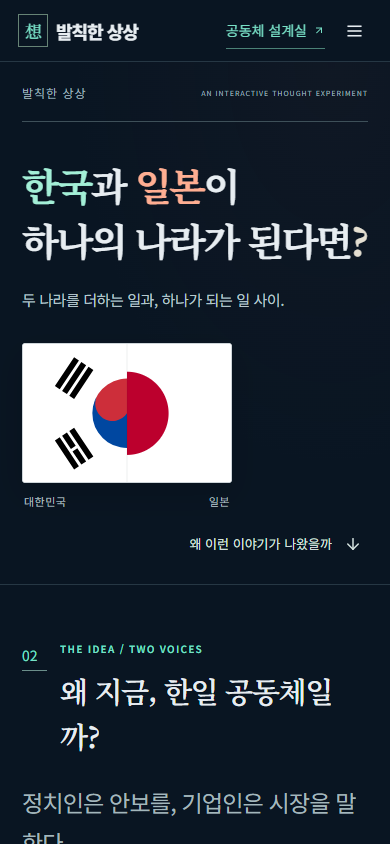
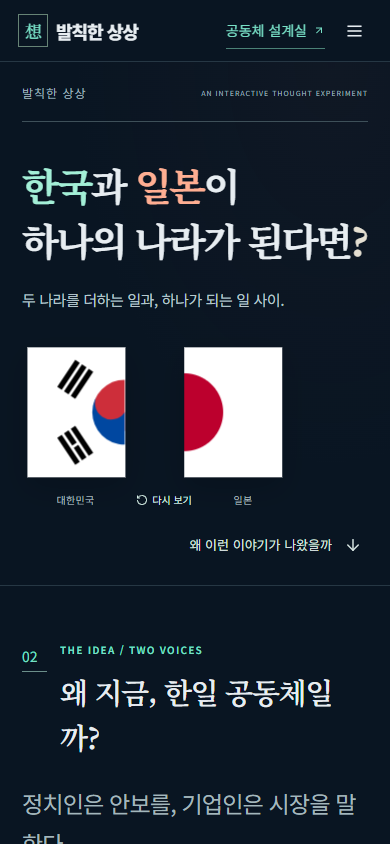
Animate-half-flags-and-show-individual-country-ranks

diff --git a/src/components/Story.tsx b/src/components/Story.tsx
@@ -3,12 +3,14 @@ import FlagUnion from './FlagUnion';
 import{useState,useEffect,useRef}from'react';
 import{ArrowDown,ArrowUpRight,Plus,Minus,Check,ChevronRight,ArrowRight}from'lucide-react';
 import economy from'../data/economy.json';
-import{links}from'../data/content';
+import{links,military}from'../data/content';
 const format=(n:number,d=1)=>new Intl.NumberFormat('ko-KR',{maximumFractionDigits:d}).format(n);
 export function NumberTicker({value,decimals=0}:{value:number;decimals?:number}){const node=useRef<HTMLSpanElement>(null),[display,setDisplay]=useState(value);useEffect(()=>{setDisplay(value);let frame=0;const observer=new IntersectionObserver(([entry])=>{if(!entry.isIntersecting)return;observer.disconnect();if(matchMedia('(prefers-reduced-motion: reduce)').matches)return;const start=performance.now();const tick=(now:number)=>{const progress=Math.min(1,(now-start)/1100);setDisplay(value*(1-Math.pow(1-progress,3)));if(progress<1)frame=requestAnimationFrame(tick)};frame=requestAnimationFrame(tick)},{threshold:.4});if(node.current)observer.observe(node.current);return()=>{observer.disconnect();cancelAnimationFrame(frame)}},[value]);return <span ref={node} aria-label={format(value,decimals)}><span aria-hidden="true">{format(display,decimals)}</span></span>}
 export function StoryHero({next}:{next:()=>void}){return <section id="chapter-0" className="chapter story-hero"><div className="story-eyeline"><span>발칙한 상상</span><span>AN INTERACTIVE THOUGHT EXPERIMENT</span></div><h1><span className="title-k">한국</span>과 <span className="title-j">일본</span>이<br/>하나의 나라가 된다면<span className="question-mark">?</span></h1><p className="hero-deck">두 나라를 더하는 일과, 하나가 되는 일 사이.</p><FlagUnion/><div className="hero-bottom"><button onClick={next}>왜 이런 이야기가 나왔을까 <ArrowDown size={18}/></button></div></section>}
-export function WhyNow(){return <div className="why-now"><p className="story-lead">정치인은 안보를, 기업인은 시장을 말한다.<br/><strong>같은 ‘연대’, 다른 출발점.</strong></p><div className="speaker-grid"><article className="speaker speaker-ishiba"><div className="speaker-top"><span>01 / 안보와 국제적 영향력</span><span>2026. 10. 29.</span></div><div className="speaker-monogram" aria-hidden="true">石</div><h3>이시바 시게루</h3><p className="speaker-role">당시 전 일본 총리 · 도쿄 국제 한반도 포럼</p><blockquote>“한일 연계 시 … GDP는 6조 달러”</blockquote><p>북핵 위협과 국제질서 변화 속에서, 두 나라의 무게를 함께 키우자는 구상.</p><a href={links.ishiba} target="_blank" rel="noreferrer">발언 보도 <ArrowUpRight size={16}/></a></article><article className="speaker speaker-chey"><div className="speaker-top"><span>02 / 산업과 시장의 규모</span><span>2025. 05. 30.</span></div><div className="speaker-monogram" aria-hidden="true">崔</div><h3>최태원</h3><p className="speaker-role">당시 SK·대한상의 회장 · 닛케이 인터뷰 보도</p><blockquote>“한일 반도체 기업간 생태계를 통합하고 싶다”</blockquote><p>에너지 공동 구매부터 반도체 협력까지, 비용과 규모의 문제를 함께 풀자는 제안.</p><a href="https://www.newstomato.com/ReadNews.aspx?no=1263802" target="_blank" rel="noreferrer">발언 보도 <ArrowUpRight size={16}/></a></article></div><div className="reason-chips"><span>시장과 공급망</span><Plus size={15}/><span>고령화와 저성장</span><Plus size={15}/><span>지정학적 불확실성</span></div><details className="story-fold"><summary>발언의 맥락과 해석 범위</summary><p>두 발언은 서로 다른 시점·맥락의 협력 구상입니다. 한일의 연방국가 수립 합의나 통합 성장효과의 검증 결과가 아닙니다. 보도된 한국어 인용이며 원어 발언록은 확보하지 못했습니다.</p><a href={links.summit} target="_blank" rel="noreferrer">양국 정상회담의 공식 협력 의제 <ArrowUpRight size={15}/></a></details><div className="story-turn">그렇다면, 숫자를 정말 더해보면?</div></div>}
-export function ScaleOverview({gdp,year,onSource}:{gdp:number;year:number;onSource:(s:'imf'|'un'|'sipri')=>void}){return <><p className="story-lead">경제는 세계 <strong>3위 규모.</strong><br/>인구와 군사비의 순위는 다르다.</p><div className="power-grid">{[{id:'imf' as const,label:'명목 GDP',rank:3,value:gdp/1000,decimals:2,unit:'조 달러',date:`${year} · IMF`,detail:'한국 + 일본의 단순 합계',pair:['한국 1.88조 $','일본 4.21조 $']},{id:'un' as const,label:'인구',rank:8,value:17547.0628,decimals:0,unit:'만 명',date:'2024 · UN 중위 전망',detail:'양국을 하나의 경제권으로 비교',pair:['한국 5,172만 명','일본 1억 2,375만 명']},{id:'sipri' as const,label:'군사비',rank:5,value:1100,decimals:0,unit:'억 달러',date:'2025 · SIPRI',detail:'군사비 순위 ≠ 실제 방위력',pair:['한국 478억 $','일본 622억 $']}].map(x=><article className={'power-card power-'+x.id} key={x.id}><div className="power-label"><span>{x.label}</span><small>{x.date}</small></div><div className="power-rank"><span>세계</span><strong><NumberTicker value={x.rank}/></strong><b>위</b></div><div className="power-value"><NumberTicker value={x.value} decimals={x.decimals}/><span>{x.unit}</span></div><div className="power-pair">{x.id==='imf'?<><span>한국 {format(economy.macro.find(m=>m.year===year)!.rows.find(r=>r.id==='KOR')!.value/1000,2)}조 $</span><span>일본 {format(economy.macro.find(m=>m.year===year)!.rows.find(r=>r.id==='JPN')!.value/1000,2)}조 $</span></>:x.pair.map(t=><span key={t}>{t}</span>)}</div><p>{x.detail}</p><button className="source-link" onClick={()=>onSource(x.id)}>출처·계산 방법 <ArrowUpRight size={14}/></button></article>)}<article className="power-card power-manufacturing"><div className="power-label"><span>제조업 부가가치</span><small>2024 · World Bank·BEA</small></div><div className="power-rank"><span>세계</span><strong><NumberTicker value={manufacturing.rank}/></strong><b>위</b></div><div className="power-value"><NumberTicker value={manufacturing.total/1e12} decimals={2}/><span>조 달러</span></div><div className="power-pair"><span>한국 {format(manufacturing.korea/1e8,0)}억 $</span><span>일본 {format(manufacturing.japan/1e8,0)}억 $</span></div><p>제조업 부가가치 단순 합계의 가상 순위</p><details className="manufacturing-source"><summary>출처·계산 방법</summary><p>2024년 현행 달러 기준. World Bank 국가별 자료에 미국 BEA/FRED 자료를 보완했습니다. 미국은 분기 연율 4개를 평균해 연간 규모로 환산했습니다. 확보된 {manufacturing.coverage}개 경제체에서 한국·일본을 빼고 합계를 넣어 산출한 가상 순위입니다. 지역 합계와 결측 경제체는 제외했습니다. 산업 분류·통계 개정 시점은 다를 수 있습니다. GDP에 포함된 값으로 GDP에 다시 더하지 않습니다.</p><a href={manufacturing.url} target="_blank" rel="noreferrer">World Bank 공식 통계 ↗</a><br/><a href={manufacturing.usUrl} target="_blank" rel="noreferrer">미국 BEA · FRED 원자료 ↗</a><div className="manufacturing-ranking">{manufacturing.ranking.slice(0,5).map((r,i)=><div key={r.id}><span>{i+1}위 {r.id==='CHN'?'중국':r.id==='USA'?'미국':r.id==='DEU'?'독일':r.id==='UNION'?'한국+일본':r.name}</span><b>{format(r.value/1e12,2)}조 $</b></div>)}</div></details></article></div><p className="scale-rule">단순 합계입니다. 경제공동체가 곧 한 나라가 되는 것은 아닙니다.</p></>}
+export function WhyNow(){return <div className="why-now"><p className="story-lead">정치인은 안보를, 기업인은 시장을 말한다.</p><div className="speaker-grid"><article className="speaker speaker-ishiba"><div className="speaker-top"><span>01 / 안보와 국제적 영향력</span><span>2026. 10. 29.</span></div><div className="speaker-monogram" aria-hidden="true">石</div><h3>이시바 시게루</h3><p className="speaker-role">당시 전 일본 총리 · 도쿄 국제 한반도 포럼</p><blockquote>“한일 연계 시 … GDP는 6조 달러”</blockquote><p>북핵 위협과 국제질서 변화 속에서, 두 나라의 무게를 함께 키우자는 구상.</p><a href={links.ishiba} target="_blank" rel="noreferrer">발언 보도 <ArrowUpRight size={16}/></a></article><article className="speaker speaker-chey"><div className="speaker-top"><span>02 / 산업과 시장의 규모</span><span>2025. 05. 30.</span></div><div className="speaker-monogram" aria-hidden="true">崔</div><h3>최태원</h3><p className="speaker-role">당시 SK·대한상의 회장 · 닛케이 인터뷰 보도</p><blockquote>“한일 반도체 기업간 생태계를 통합하고 싶다”</blockquote><p>에너지 공동 구매부터 반도체 협력까지, 비용과 규모의 문제를 함께 풀자는 제안.</p><a href="https://www.newstomato.com/ReadNews.aspx?no=1263802" target="_blank" rel="noreferrer">발언 보도 <ArrowUpRight size={16}/></a></article></div><div className="reason-chips"><span>시장과 공급망</span><Plus size={15}/><span>고령화와 저성장</span><Plus size={15}/><span>지정학적 불확실성</span></div><details className="story-fold"><summary>발언의 맥락과 해석 범위</summary><p>두 발언은 서로 다른 시점·맥락의 협력 구상입니다. 한일의 연방국가 수립 합의나 통합 성장효과의 검증 결과가 아닙니다. 보도된 한국어 인용이며 원어 발언록은 확보하지 못했습니다.</p><a href={links.summit} target="_blank" rel="noreferrer">양국 정상회담의 공식 협력 의제 <ArrowUpRight size={15}/></a></details><div className="story-turn">그렇다면, 숫자를 정말 더해보면?</div></div>}
+const countryRank=(rows:{id:string;value:number}[],id:string)=>{const value=rows.find(r=>r.id===id)!.value;return 1+rows.filter(r=>r.value>value).length};
+const manufacturingCountries=[...manufacturing.ranking.filter(r=>r.id!=='UNION'),{id:'KOR',value:manufacturing.korea},{id:'JPN',value:manufacturing.japan}];
+export function ScaleOverview({gdp,year,onSource}:{gdp:number;year:number;onSource:(s:'imf'|'un'|'sipri')=>void}){return <><p className="story-lead">경제는 세계 <strong>3위 규모.</strong><br/>인구와 군사비의 순위는 다르다.</p><div className="power-grid">{[{id:'imf' as const,label:'명목 GDP',rank:3,value:gdp/1000,decimals:2,unit:'조 달러',date:`${year} · IMF`,detail:'한국 + 일본의 단순 합계',pair:['한국 1.88조 $','일본 4.21조 $']},{id:'un' as const,label:'인구',rank:8,value:17547.0628,decimals:0,unit:'만 명',date:'2024 · UN 중위 전망',detail:'양국을 하나의 경제권으로 비교',pair:['한국 5,172만 명','일본 1억 2,375만 명']},{id:'sipri' as const,label:'군사비',rank:5,value:1100,decimals:0,unit:'억 달러',date:'2025 · SIPRI',detail:'군사비 순위 ≠ 실제 방위력',pair:['한국 478억 $','일본 622억 $']}].map(x=><article className={'power-card power-'+x.id} key={x.id}><div className="power-label"><span>{x.label}</span><small>{x.date}</small></div><div className="power-rank"><span>세계</span><strong><NumberTicker value={x.rank}/></strong><b>위</b></div><div className="power-value"><NumberTicker value={x.value} decimals={x.decimals}/><span>{x.unit}</span></div><div className="power-pair">{x.id==='imf'?<><span>한국 {format(economy.macro.find(m=>m.year===year)!.rows.find(r=>r.id==='KOR')!.value/1000,2)}조 $<em className="country-rank">세계 {countryRank(economy.macro.find(m=>m.year===year)!.rows,'KOR')}위</em></span><span>일본 {format(economy.macro.find(m=>m.year===year)!.rows.find(r=>r.id==='JPN')!.value/1000,2)}조 $<em className="country-rank">세계 {countryRank(economy.macro.find(m=>m.year===year)!.rows,'JPN')}위</em></span></>:x.pair.map((t,i)=><span key={t}>{t}<em className="country-rank">세계 {countryRank(x.id==='un'?economy.population.rows:military,i===0?'KOR':'JPN')}위</em></span>)}</div><p>{x.detail}</p><button className="source-link" onClick={()=>onSource(x.id)}>출처·계산 방법 <ArrowUpRight size={14}/></button></article>)}<article className="power-card power-manufacturing"><div className="power-label"><span>제조업 부가가치</span><small>2024 · World Bank·BEA</small></div><div className="power-rank"><span>세계</span><strong><NumberTicker value={manufacturing.rank}/></strong><b>위</b></div><div className="power-value"><NumberTicker value={manufacturing.total/1e12} decimals={2}/><span>조 달러</span></div><div className="power-pair"><span>한국 {format(manufacturing.korea/1e8,0)}억 $<em className="country-rank">세계 {countryRank(manufacturingCountries,'KOR')}위</em></span><span>일본 {format(manufacturing.japan/1e8,0)}억 $<em className="country-rank">세계 {countryRank(manufacturingCountries,'JPN')}위</em></span></div><p>제조업 부가가치 단순 합계의 가상 순위</p><details className="manufacturing-source"><summary>출처·계산 방법</summary><p>2024년 현행 달러 기준. World Bank 국가별 자료에 미국 BEA/FRED 자료를 보완했습니다. 미국은 분기 연율 4개를 평균해 연간 규모로 환산했습니다. 확보된 {manufacturing.coverage}개 경제체에서 한국·일본을 빼고 합계를 넣어 산출한 가상 순위입니다. 지역 합계와 결측 경제체는 제외했습니다. 산업 분류·통계 개정 시점은 다를 수 있습니다. GDP에 포함된 값으로 GDP에 다시 더하지 않습니다.</p><a href={manufacturing.url} target="_blank" rel="noreferrer">World Bank 공식 통계 ↗</a><br/><a href={manufacturing.usUrl} target="_blank" rel="noreferrer">미국 BEA · FRED 원자료 ↗</a><div className="manufacturing-ranking">{manufacturing.ranking.slice(0,5).map((r,i)=><div key={r.id}><span>{i+1}위 {r.id==='CHN'?'중국':r.id==='USA'?'미국':r.id==='DEU'?'독일':r.id==='UNION'?'한국+일본':r.name}</span><b>{format(r.value/1e12,2)}조 $</b></div>)}</div></details></article></div><p className="scale-rule">개별 순위는 통합 전, 합산 순위는 양국을 빼고 합계를 넣은 비교입니다. 지표별 기준연도는 다릅니다.</p></>}
 export function RealityIntro(){return <><p className="story-lead">숫자는 더해진다.<br/><strong>역사와 주권은 그렇게 더해지지 않는다.</strong></p><div className="obstacle-grid">{[['역사와 신뢰','과거사·피해자 권리·영토 문제'],['누가 결정할까','인구 비례와 국가 동등성의 충돌'],['누가 부담할까','산업 조정·복지·재정의 비용']].map(([title,desc],i)=><article key={title}><span>0{i+1}</span><h3>{title}</h3><p>{desc}</p></article>)}</div><div className="sentiment-hook"><span>상대국에 좋은 인상 · 2026 EAI·IHJ</span><div><p><small>한국 → 일본</small><strong className="k-text"><NumberTicker value={54.3} decimals={1}/><b>%</b></strong></p><span className="sentiment-vs">↔</span><p><small>일본 → 한국</small><strong className="j-text"><NumberTicker value={35.3} decimals={1}/><b>%</b></strong></p></div><h3>가까워졌지만, 같은 마음은 아니다.</h3></div></>}
 export function EuropeanBalance(){return <div className="europe-balance"><div className="europe-journey"><div><strong>1950</strong><span>석탄·철강 공동관리 제안</span></div><ArrowRight/><div><strong>1993</strong><span>EU 출범·단일시장</span></div><div className="journey-duration"><b>43</b><span>년의 협상과 타협</span></div></div><div className="balance-grid"><article><span className="balance-sign">+</span><h3>함께 열 수 있는 것</h3><ul><li>더 큰 시장과 이동의 자유</li><li>공통 규칙으로 낮아지는 장벽</li><li>장기 협력과 공동 협상력</li></ul></article><article><span className="balance-sign">−</span><h3>함께 감당해야 하는 것</h3><ul><li>국가별 정책 자율성의 제약</li><li>지역·산업별로 다른 이익과 비용</li><li>통화위기·국경 통제·탈퇴 갈등</li></ul></article></div><p className="scale-rule">EU는 단일 주권국가가 아니다. 솅겐·유로존·NATO도 서로 다른 제도다.</p><details className="story-fold"><summary>EU의 성과와 한계, 공식 자료로 더 보기</summary><p>아래 타임라인에서 통합의 변화와 갈등을 함께 볼 수 있습니다. EU의 제도를 한일에 그대로 적용할 수 있다는 뜻은 아닙니다.</p><a href="https://www.consilium.europa.eu/en/policies/the-eu-single-market-benefits-facts-and-figures/" target="_blank" rel="noreferrer">EU 단일시장 공식 설명 <ArrowUpRight size={15}/></a></details></div>}
 export function Outlook(){const[tab,setTab]=useState(0);const paths=[{name:'분야별 협력',assessment:'출발점이 이미 있다',title:'작게 합의하고, 계속 작동시키기',plus:'공동 구매·공급망·인적 교류를 분야별로 확대할 수 있다.',minus:'정권·외교 갈등에 따라 협력이 흔들릴 수 있다.',conditions:['지속적인 협의기구','협정 이행과 분쟁 해결','피해자 권리·역사 문제의 별도 진전'],evidence:'RCEP 참여와 공통 사회 과제 협의는 이미 존재하는 협력 기반이다.',url:links.summit},{name:'EU형 공동시장',assessment:'추가 조약과 권한 합의가 필요하다',title:'상품을 넘어, 규칙을 함께 만들기',plus:'상품·서비스·자본·사람의 이동 장벽을 낮출 수 있다.',minus:'노동·복지·이민·경쟁법 조정의 비용과 대표성 문제가 생긴다.',conditions:['개방 범위에 대한 합의','규제·경쟁·사법 체계','산업별 조정 대책과 민주적 통제'],evidence:'EU 사례는 단일시장이 관세 인하 이상의 공동 규칙을 요구함을 보여준다.',url:links.eu},{name:'공동통화·연방',assessment:'더 큰 국민적·헌법적 합의가 필요하다',title:'경제의 합계에서, 주권의 공유로',plus:'제도 설계에 따라 역내 환전·일부 정책 조정 비용을 줄일 수 있다.',minus:'독자적 통화·외교·재정 권한의 제약과 위험 분담이 뒤따른다.',conditions:['공동 중앙은행·금융 안전장치','재정·시민권·권한 배분','양국 시민의 명시적 동의'],evidence:'경제공동체 긍정 응답만으로 정치통합의 동의를 판단할 수 없다.',url:links.chamber}];const s=paths[tab];return <div className="outlook"><p className="story-lead">‘하나가 될까’보다 먼저,<br/><strong>무엇을 함께할 수 있을까.</strong></p><p className="outlook-byline">자료와 제도에 근거한 편집 분석 · 실현 확률이나 도입 시점의 예측이 아닙니다.</p><div className="outlook-tabs">{paths.map((p,i)=><button key={p.name} aria-pressed={tab===i} className={tab===i?'active':''} onClick={()=>setTab(i)}><span>0{i+1}</span>{p.name}<ChevronRight size={18}/></button>)}</div><div className="outlook-result" aria-live="polite"><span className="outlook-assessment">{s.assessment}</span><h3>{s.title}</h3><div className="outlook-tradeoffs"><div><Plus/><p>{s.plus}</p></div><div><Minus/><p>{s.minus}</p></div></div><h4>현실화의 조건</h4><div className="conditions">{s.conditions.map(x=><span key={x}><Check size={17}/>{x}</span>)}</div><details className="story-fold"><summary>이 전망의 근거</summary><p>{s.evidence}</p><a href={s.url} target="_blank" rel="noreferrer">관련 자료 <ArrowUpRight size={15}/></a></details></div><div className="closing-thought">함께할 수 있는 범위는,<br/><strong>숫자가 아니라 합의가 결정한다.</strong></div></div>}

diff --git a/tests/ui/narrative.spec.ts b/tests/ui/narrative.spec.ts
@@ -4,10 +4,10 @@ test('narrative, everyday comparisons, currency experiment and existing tools',a
  await expect(page.getByRole('heading',{level:1})).toContainText('한국과 일본이');
  await expect(page.locator('main>section')).toHaveCount(11);
  await expect(page.locator('body')).toHaveJSProperty('scrollWidth',await page.evaluate(()=>innerWidth));
- await expect(page.locator('.flag-union svg')).toBeVisible();await expect(page.locator('.flag-union image')).toHaveCount(2);await expect(page.locator('.land-union')).toHaveCount(0);
+ await expect(page.locator('.flag-union>svg')).toBeVisible();await expect(page.locator('.flag-union image')).toHaveCount(2);await expect(page.locator('.land-union')).toHaveCount(0);await expect(page.locator('.flag-piece-k')).toHaveCSS('animation-name','flag-join-k');await page.getByRole('button',{name:'국기 합치기 다시 보기'}).click();
  await page.screenshot({path:`docs/${info.project.name}-hero.png`,fullPage:false});
  await expect(page.locator('#chapter-1')).toContainText('이시바 시게루');await expect(page.locator('#chapter-1')).toContainText('최태원');
- await expect(page.locator('.power-imf .power-rank')).toContainText('3');await expect(page.locator('.power-un .power-rank')).toContainText('8');await expect(page.locator('.power-sipri .power-rank')).toContainText('5');
+ await expect(page.locator('.power-pair .country-rank')).toHaveCount(8);await expect(page.locator('.power-imf .power-rank')).toContainText('3');await expect(page.locator('.power-un .power-rank')).toContainText('8');await expect(page.locator('.power-sipri .power-rank')).toContainText('5');
  await page.locator('.ranking-fold>summary').click();await page.getByLabel('GDP 기준연도').selectOption('2026');await expect(page.locator('.power-imf .power-value')).toContainText('6.59');
  await page.locator('#chapter-2').getByRole('button',{name:'인구',exact:true}).click();await expect(page.locator('.ranking-panel .highlight')).toContainText('175.47');
  await expect(page.locator('.daily-car .local-price')).toContainText('엔');await expect(page.locator('.daily-car')).toContainText('만원 환산');await expect(page.locator('.daily-housing')).toContainText('다른 집계');

diff --git a/src/components/FlagUnion.tsx b/src/components/FlagUnion.tsx
@@ -1,3 +1,4 @@
+import{useState}from'react';
+import{RotateCcw}from'lucide-react';
 import './flag-union.css';
-
-export default function FlagUnion(){return <figure className="flag-union"><svg viewBox="0 0 360 240" role="img" aria-label="왼쪽은 태극기, 오른쪽은 일장기를 절반씩 맞댄 그래픽"><defs><clipPath id="flag-korea-half"><rect width="180" height="240"/></clipPath><clipPath id="flag-japan-half"><rect x="180" width="180" height="240"/></clipPath></defs><rect width="360" height="240" fill="#fff"/><image href="./images/kr.svg" width="360" height="240" preserveAspectRatio="xMidYMid meet" clipPath="url(#flag-korea-half)"/><image href="./images/jp.svg" width="360" height="240" preserveAspectRatio="xMidYMid meet" clipPath="url(#flag-japan-half)"/><path d="M180 0V240" stroke="#0a1624" strokeOpacity=".13" strokeWidth="1"/></svg><figcaption><span>대한민국</span><span>일본</span></figcaption></figure>}
+export default function FlagUnion(){const[replay,setReplay]=useState(0);return <figure className="flag-union"><svg key={replay} viewBox="-65 -8 490 256" role="img" aria-label="태극기 왼쪽 절반과 일장기 오른쪽 절반이 떨어져 있다가 모여 하나의 국기가 되는 그래픽"><defs><clipPath id="flag-korea-half"><rect width="180" height="240"/></clipPath><clipPath id="flag-japan-half"><rect x="180" width="180" height="240"/></clipPath></defs><g className="flag-piece flag-piece-k"><rect width="180" height="240" fill="#fff"/><image href="./images/kr.svg" width="360" height="240" preserveAspectRatio="xMidYMid meet" clipPath="url(#flag-korea-half)"/></g><g className="flag-piece flag-piece-j"><rect x="180" width="180" height="240" fill="#fff"/><image href="./images/jp.svg" width="360" height="240" preserveAspectRatio="xMidYMid meet" clipPath="url(#flag-japan-half)"/></g></svg><figcaption><span>대한민국</span><button onClick={()=>setReplay(replay+1)} aria-label="국기 합치기 다시 보기"><RotateCcw size={12}/>다시 보기</button><span>일본</span></figcaption></figure>}

diff --git a/src/components/flag-union.css b/src/components/flag-union.css
@@ -1,1 +1,1 @@
-.flag-union{width:280px;max-width:70%;margin:30px 0 26px}.flag-union svg{display:block;width:100%;height:auto;border:1px solid #ced5d9;border-radius:3px;box-shadow:0 12px 32px #00000026;background:white}.flag-union figcaption{display:flex;justify-content:space-between;margin-top:10px;padding:0 2px;color:#a5b9be;font-size:12px;letter-spacing:.5px}.story-hero .hero-bottom{padding-top:10px}.story-hero .hero-bottom>button{margin-left:auto}@media(max-width:640px){.flag-union{width:210px;margin:24px 0 22px}.flag-union figcaption{font-size:11px}.story-hero .hero-bottom{padding-top:2px}}
+.flag-union{width:340px;max-width:90%;margin:30px 0 26px}.flag-union svg{display:block;width:100%;height:auto;overflow:visible;filter:drop-shadow(0 10px 15px #00000028)}.flag-piece{transform-box:view-box;transform-origin:0 0;animation-duration:2.4s;animation-timing-function:cubic-bezier(.22,.7,.18,1);animation-fill-mode:both}.flag-piece-k{animation-name:flag-join-k}.flag-piece-j{animation-name:flag-join-j}@keyframes flag-join-k{0%,22%{transform:translateX(-55px)}100%{transform:translateX(0)}}@keyframes flag-join-j{0%,22%{transform:translateX(55px)}100%{transform:translateX(0)}}.flag-union figcaption{display:flex;align-items:center;justify-content:space-between;margin:10px 13% 0;color:#a5b9be;font-size:11px;gap:10px;letter-spacing:.3px}.flag-union figcaption button{display:flex;align-items:center;gap:4px;color:#8fa8ae;background:none;border:0;padding:3px;font-size:10px;cursor:pointer;white-space:nowrap}.flag-union figcaption button:hover{color:#d5eee5}.story-hero .hero-bottom{padding-top:10px}.story-hero .hero-bottom>button{margin-left:auto}@media(max-width:640px){.flag-union{width:265px;margin:24px 0 22px}.flag-union figcaption{font-size:10px;margin-top:8px}.story-hero .hero-bottom{padding-top:2px}}@media(prefers-reduced-motion:reduce){.flag-piece{animation:none;transform:none}}

diff --git a/src/story.css b/src/story.css
@@ -19,3 +19,7 @@
 @media(min-width:641px){.power-grid{grid-template-columns:repeat(2,minmax(0,1fr))}}.manufacturing-scale>strong{font-size:clamp(75px,7vw,115px);letter-spacing:-6px}.manufacturing-scale>b{font-size:26px}.power-manufacturing .power-value{font-size:20px}.manufacturing-source{font-size:12px}.manufacturing-source summary{cursor:pointer}.manufacturing-source p{font-size:13px!important}.manufacturing-source a{color:inherit;text-decoration:underline}@media(max-width:640px){.manufacturing-scale>strong{font-size:72px}.manufacturing-scale>b{font-size:21px}.power-manufacturing .power-value{font-size:17px}.manufacturing-source{grid-column:1/-1}}
 
 .power-manufacturing .power-value{font-size:clamp(31px,3.7vw,49px)}.power-manufacturing .power-value>span:last-child{font-size:16px}.manufacturing-ranking{margin-top:18px}.manufacturing-ranking>div{display:flex;justify-content:space-between;gap:12px;padding:8px 0;border-bottom:1px solid #73908533}@media(max-width:640px){.power-manufacturing .power-value{font-size:31px}}
+
+.power-pair>span{display:flex;align-items:center;justify-content:space-between;gap:10px;flex-wrap:wrap}.country-rank{display:inline-block;font-size:11px;font-style:normal;font-weight:700;white-space:nowrap;color:#d8e4dd;background:#46645c55;border:1px solid #7f9b8c44;padding:3px 7px;border-radius:4px}.power-sipri .country-rank{color:#654c40;background:#c5b69b33;border-color:#a2927944}@media(max-width:640px){.power-pair{flex-direction:column!important;gap:9px!important}.power-pair>span{width:100%;font-size:13px}.country-rank{font-size:11px;padding:3px 7px}}
+
+.power-sipri .country-rank{color:#eed9d0;background:#79605655;border-color:#b9a09355}
